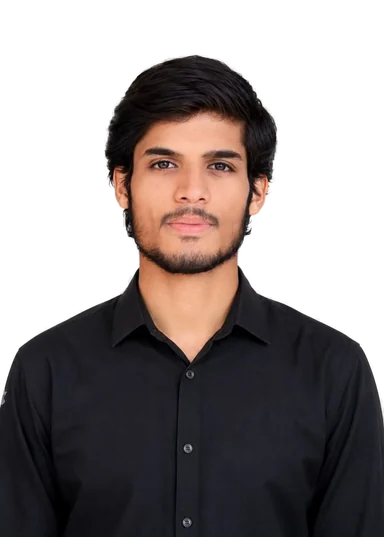
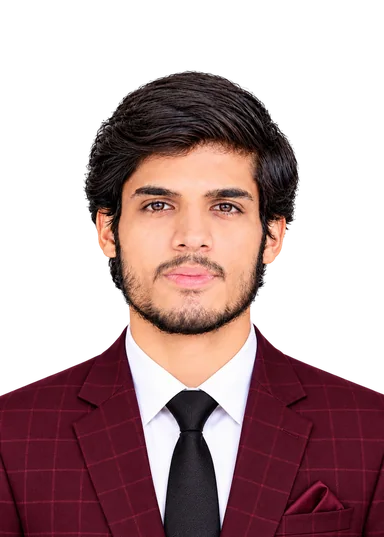
New professional portrait, simplified hero photo, add .htaccess

diff --git a/src/sections/Hero.tsx b/src/sections/Hero.tsx
@@ -114,14 +114,8 @@ export function Hero({ entered }: { entered: boolean }) {
           <Tilt3D className="hero-portrait" max={14}>
             <div className="hero-portrait-card">
               <img src={profile.photoCutout} srcSet={`${profile.photoCutoutSmall} 384w, ${profile.photoCutout} 768w`} sizes="(max-width: 760px) 200px, 300px" width={768} height={1075} alt={`Portrait of ${profile.name}`} loading="eager" fetchPriority="high" decoding="async" />
-              <span className="hero-portrait-shine" aria-hidden="true" />
             </div>
-            <span className="hero-portrait-ring hero-portrait-ring--a" aria-hidden="true" />
-            <span className="hero-portrait-ring hero-portrait-ring--b" aria-hidden="true" />
             <span className="hero-portrait-badge depth-4"><span className="eyebrow-dot" />OPEN TO WORK</span>
-            <span className="hero-portrait-chip hero-portrait-chip--a depth-3">FastAPI</span>
-            <span className="hero-portrait-chip hero-portrait-chip--b depth-3">AI Automation</span>
-            <span className="hero-portrait-chip hero-portrait-chip--c depth-3">Flutter</span>
           </Tilt3D>
           <span>{profile.role}</span>
           <span>{profile.location}</span>
